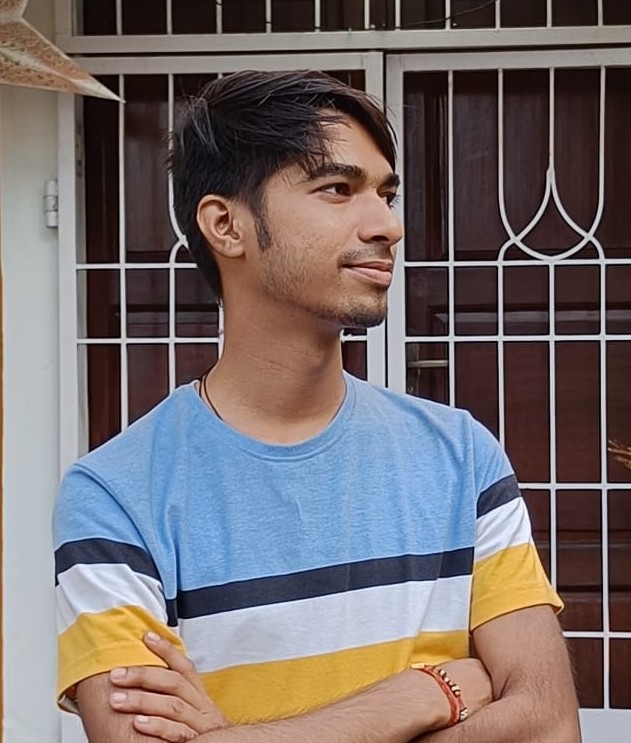
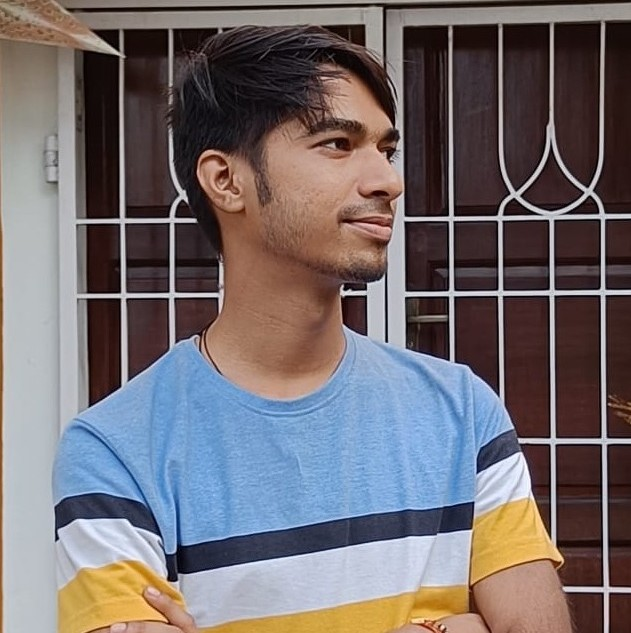
again changed dimension of profile picture

diff --git a/src/containers/greeting/Greeting.scss b/src/containers/greeting/Greeting.scss
@@ -41,7 +41,7 @@
 }
 
 .greeting-text-p {
-  font-size: 30px;
+  font-size: 25px;
   line-height: 40px;
 }
 
@@ -50,7 +50,8 @@
   height: auto;
 }
 .greeting-image-div-dp > img {
-  max-width: 50%;
+  max-width: 30%;
+  border-radius: 50%;
   height: auto;
 }
 
